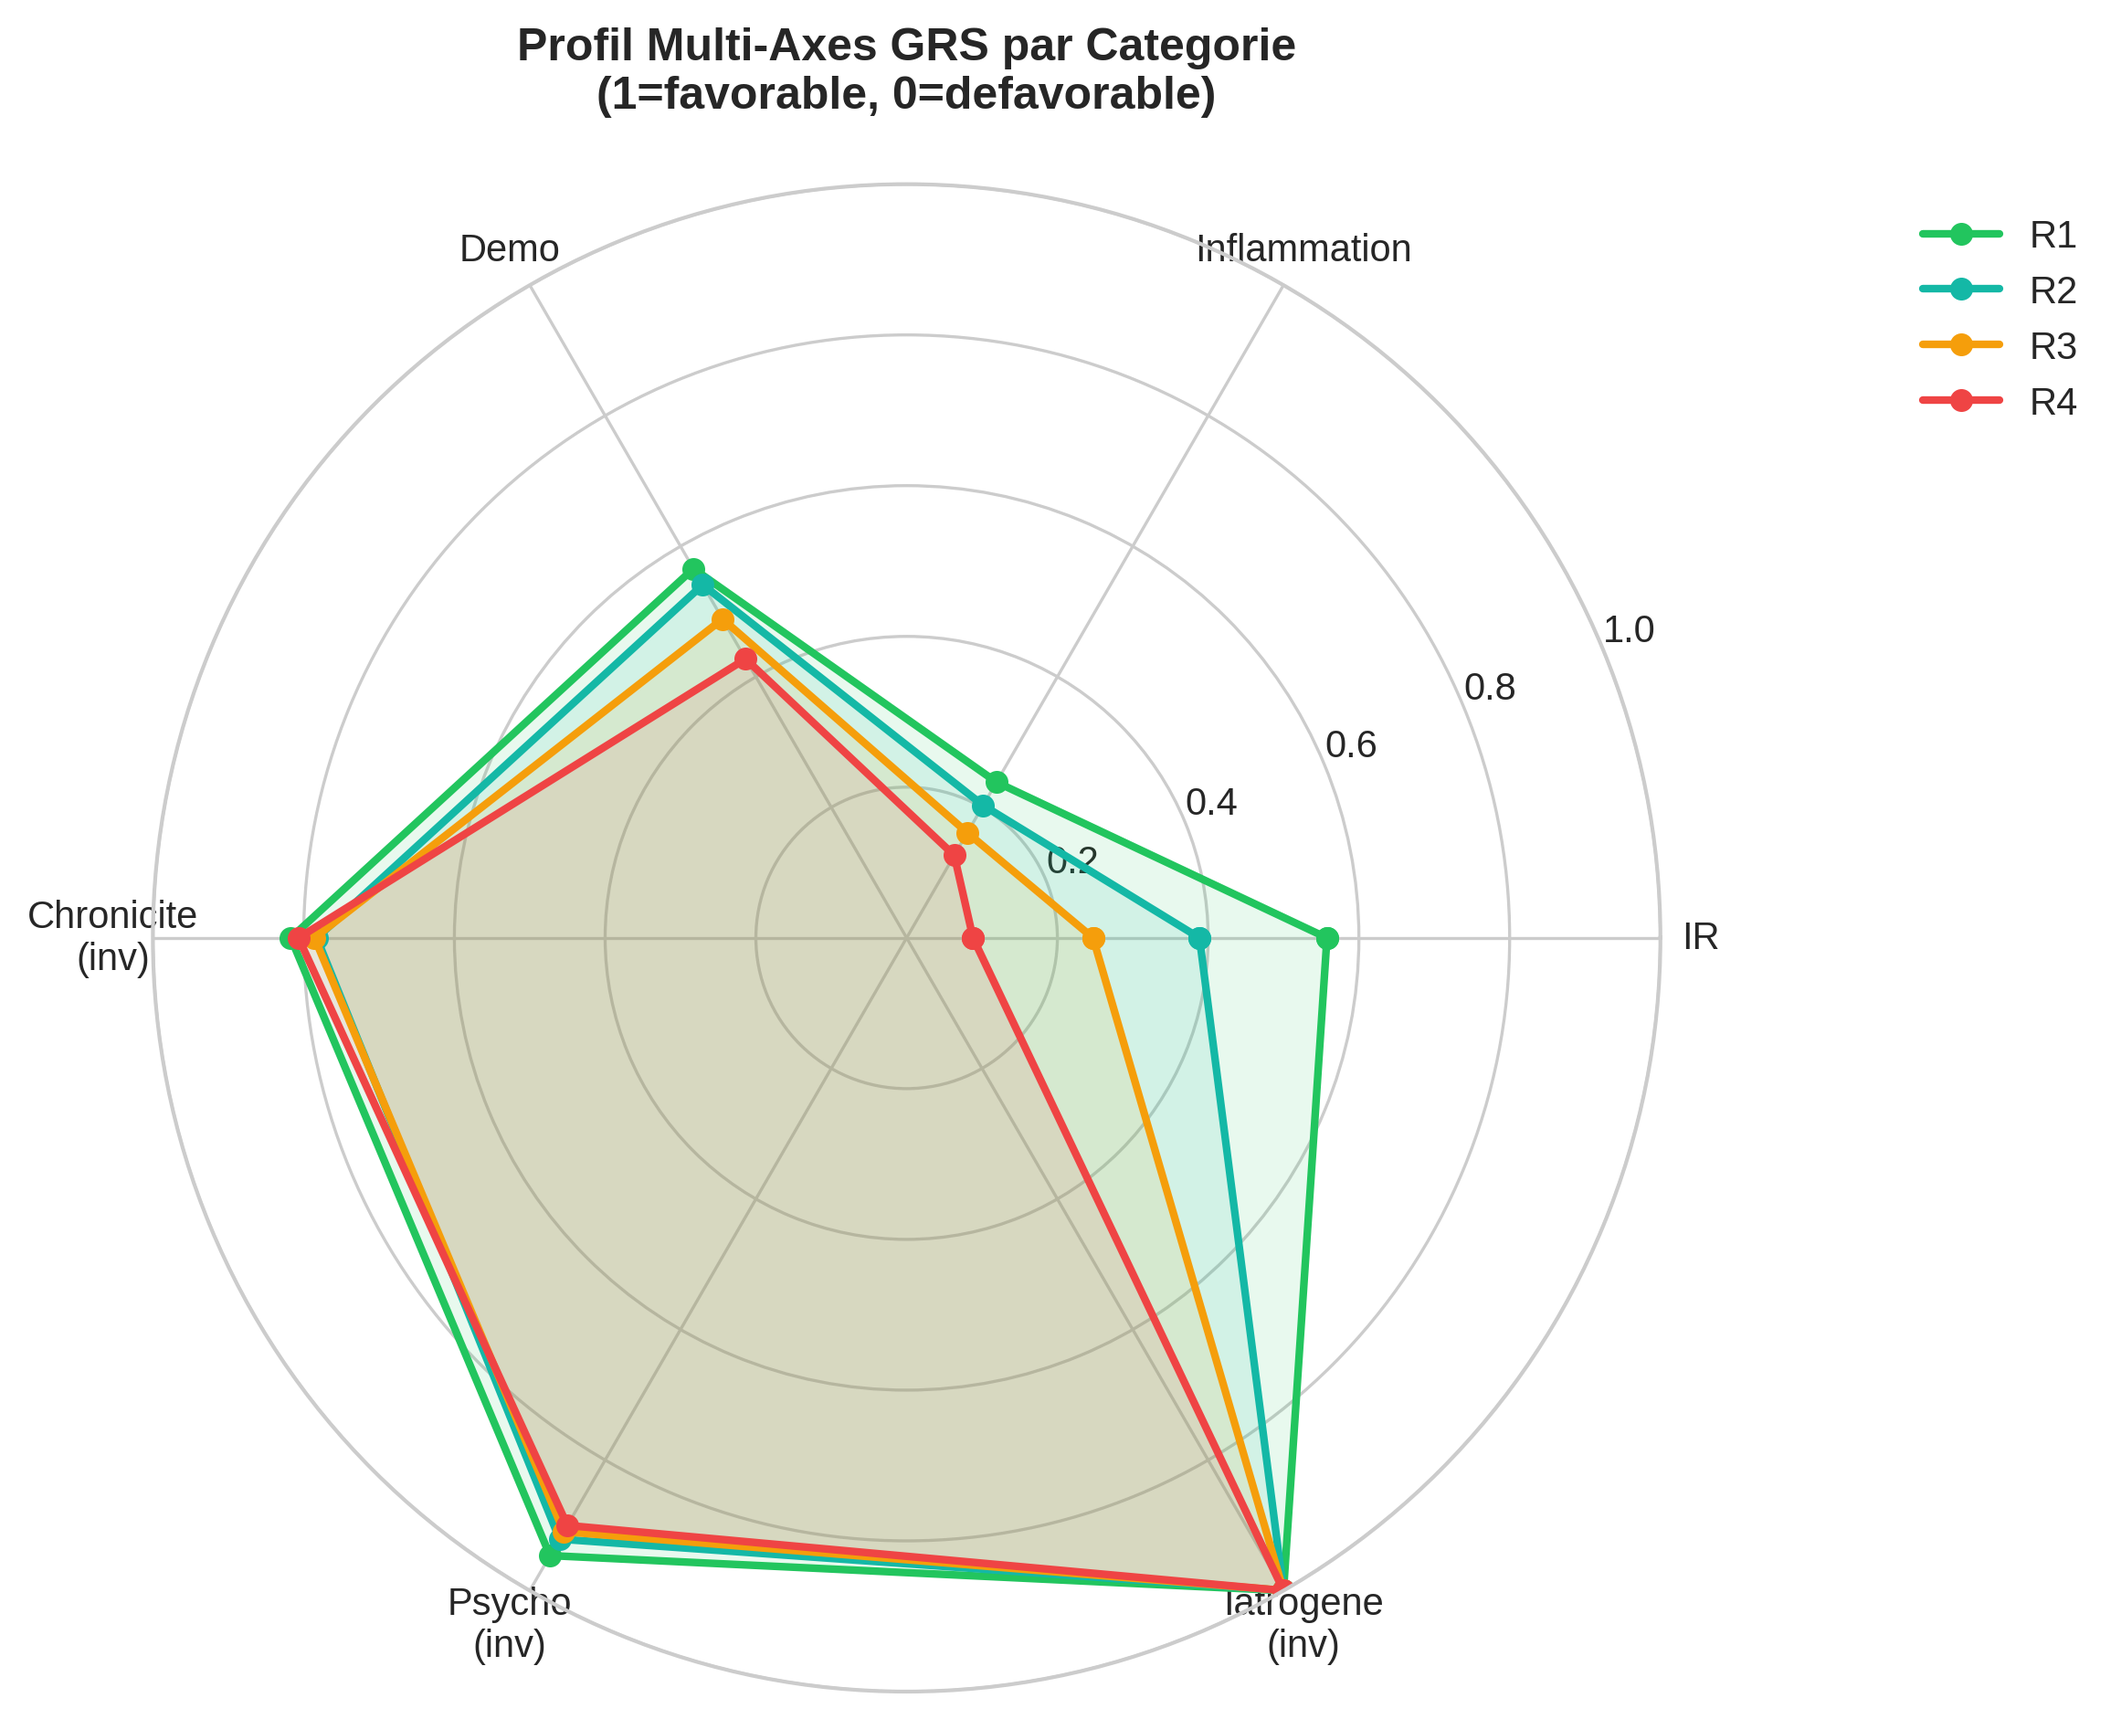
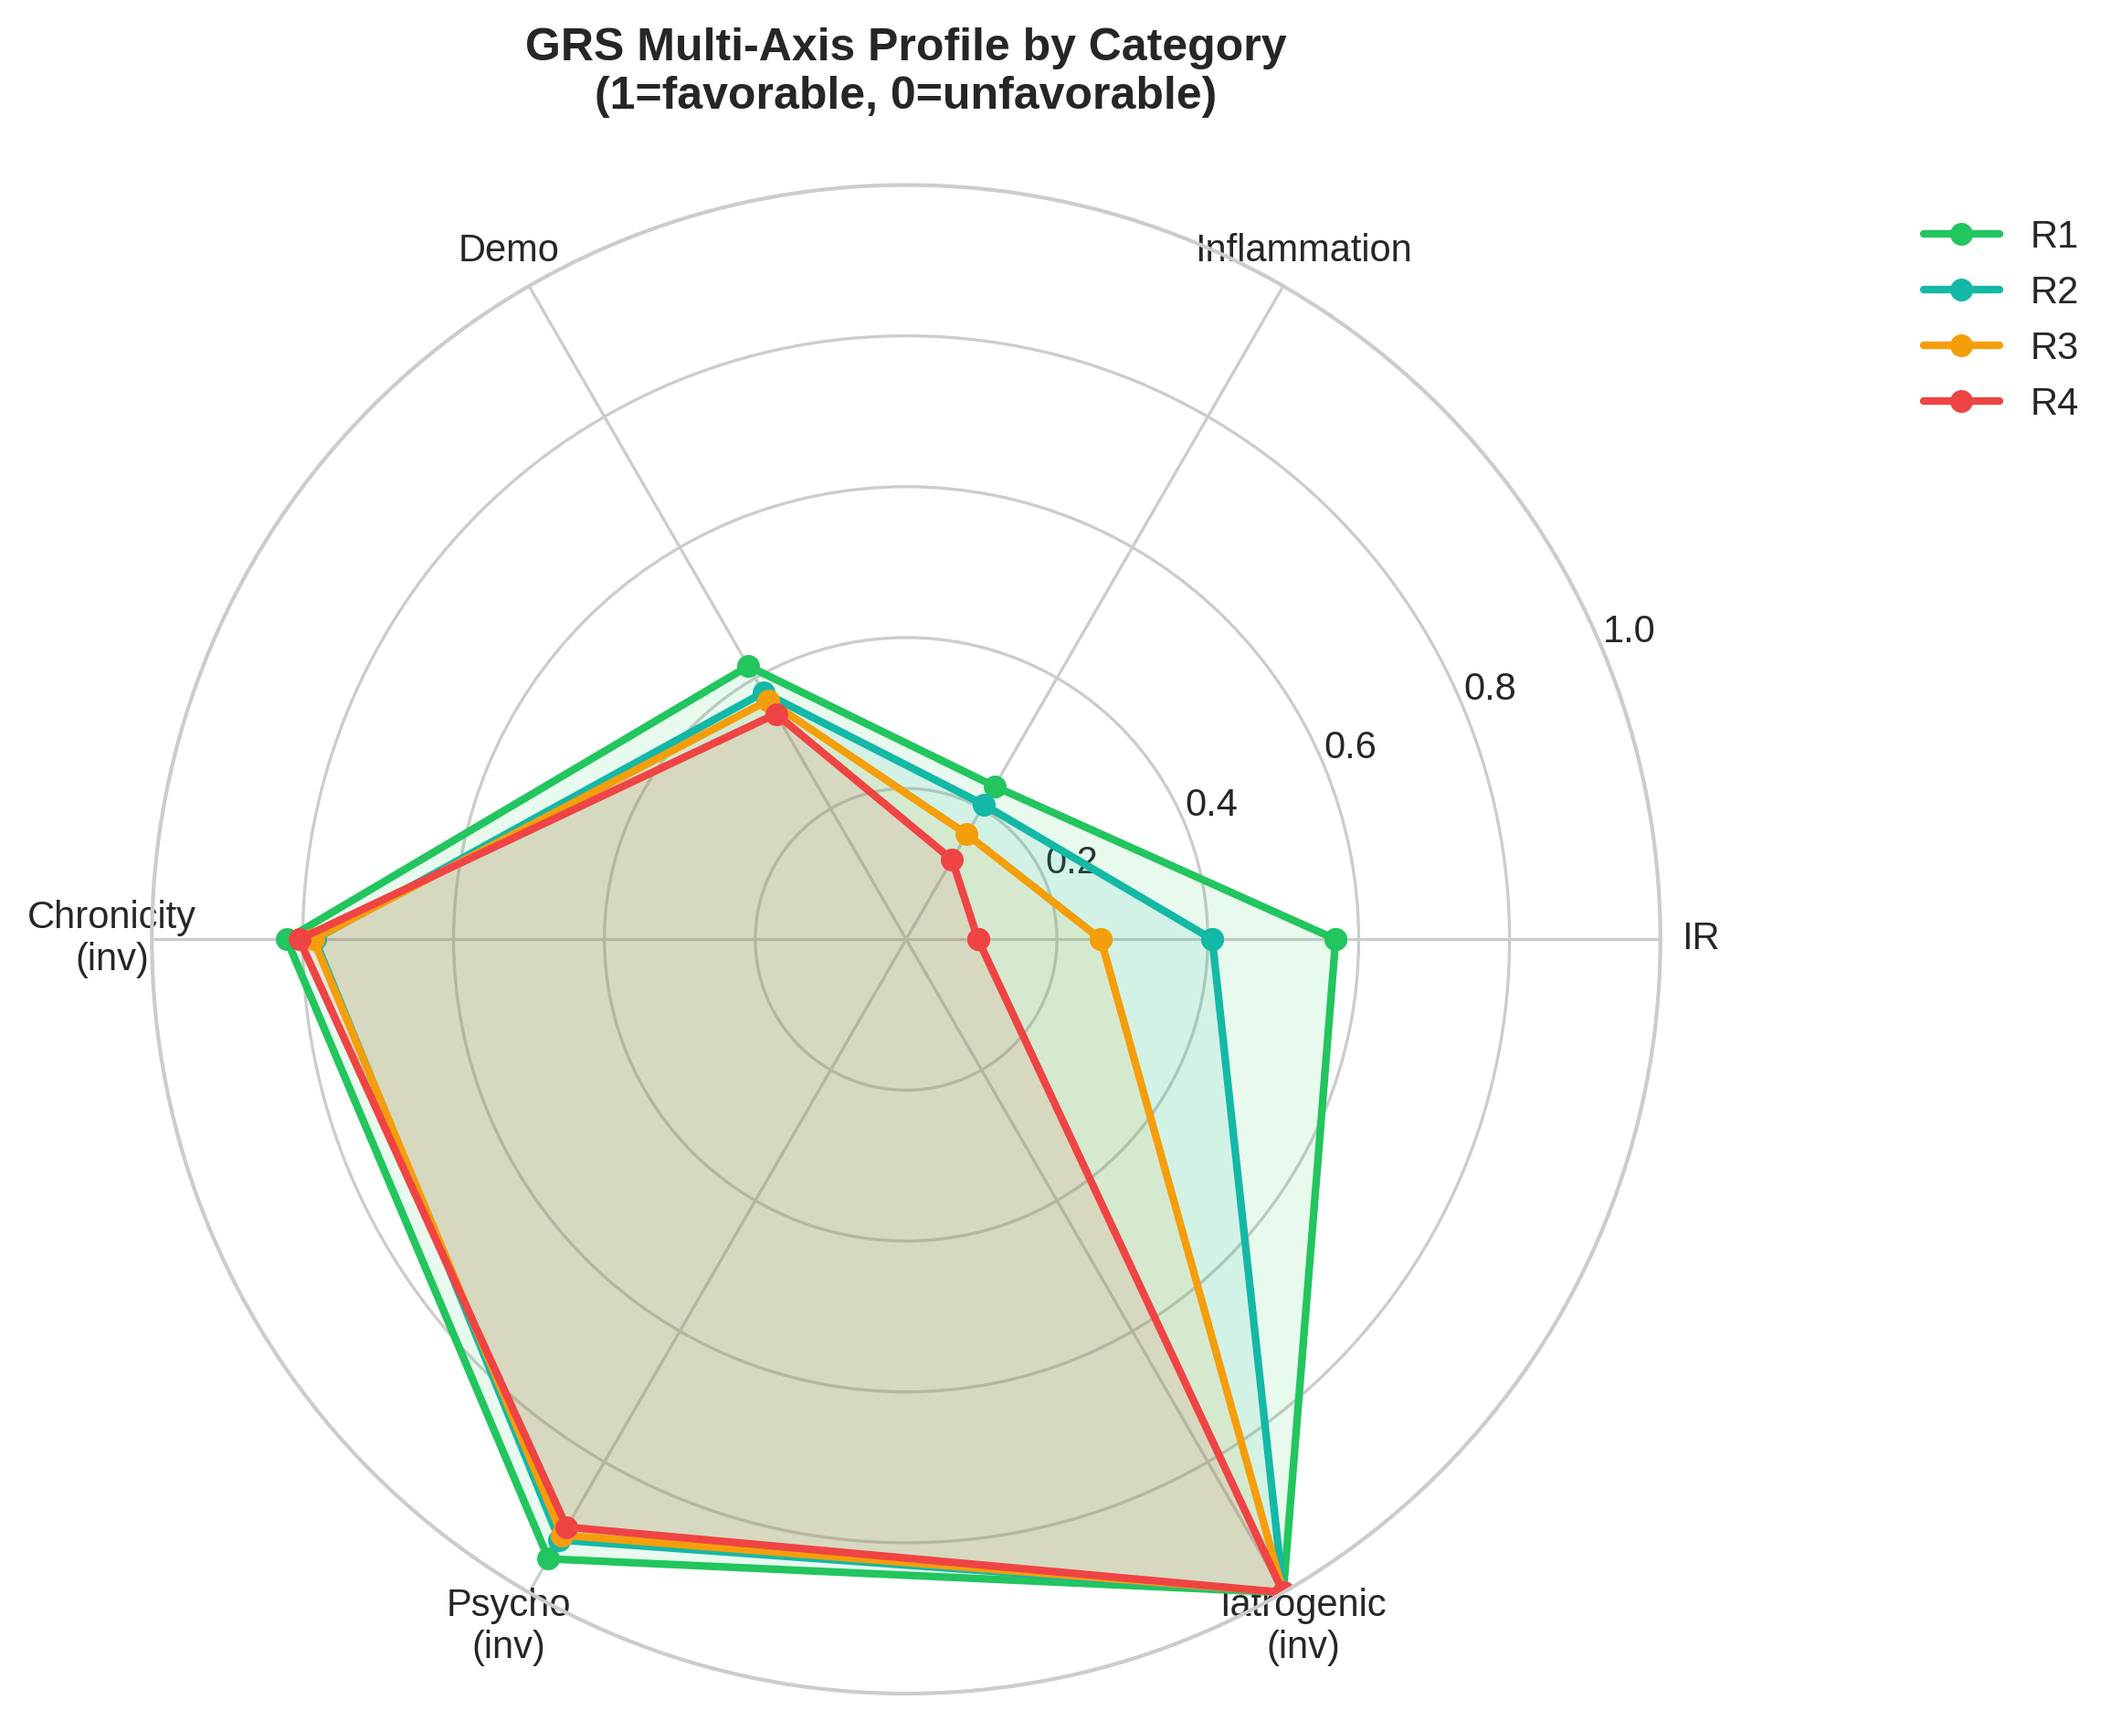
Translate figure labels from French to English
- fig3_distributions.png: FAIBLE→LOW, MODERE→MODERATE, ELEVE→HIGH, TRES_ELEVE→VERY_HIGH
- fig_btm4_radar_axes.png: Chronicite→Chronicity, Iatrogene→Iatrogenic, title in English
- fig_btm2_calibration_ppe.png: axis labels and legend translated to English
- generate_unified_article.py: updated S5 caption with detailed description

https://claude.ai/code/session_01TeLDZmhqjDQWJoh2d1sN31

diff --git a/btm_monte_carlo_validation.py b/btm_monte_carlo_validation.py
@@ -1248,10 +1248,10 @@ def generate_btm_figures(df, val_results, eligible, subgroup_results, axis_resul
             mean_ppe = np.mean(ppe_vals)
             mean_tbwl = np.mean(tbwl_vals)
             ax.plot(mean_ppe, mean_tbwl, 'o', color=colors[p], markersize=12, markeredgecolor='black', markeredgewidth=1.5)
-    ax.plot([0, 25], [0, 25], 'k--', lw=1, alpha=0.5, label='Calibration parfaite')
-    ax.set_xlabel('PPE (Perte de Poids Estimee, %)', fontsize=12)
-    ax.set_ylabel('TBWL Simule Moyen (%)', fontsize=12)
-    ax.set_title('Calibration PPE vs Reponse Simulee par Profil', fontsize=13, fontweight='bold')
+    ax.plot([0, 25], [0, 25], 'k--', lw=1, alpha=0.5, label='Perfect calibration')
+    ax.set_xlabel('PPE (Predicted Weight Loss, %)', fontsize=12)
+    ax.set_ylabel('Mean Simulated TBWL (%)', fontsize=12)
+    ax.set_title('PPE Calibration vs Simulated Response by Profile', fontsize=13, fontweight='bold')
     ax.legend(fontsize=9)
     ax.set_xlim(-1, 26)
     ax.set_ylim(-2, 30)
@@ -1297,7 +1297,7 @@ def generate_btm_figures(df, val_results, eligible, subgroup_results, axis_resul
 
     # ── Fig BTM-4: Radar Chart (GRS Axes by Profile) ──
     fig, ax = plt.subplots(figsize=(8, 8), subplot_kw=dict(polar=True))
-    axes_names = ['IR', 'Inflammation', 'Demo', 'Chronicite\n(inv)', 'Psycho\n(inv)', 'Iatrogene\n(inv)']
+    axes_names = ['IR', 'Inflammation', 'Demo', 'Chronicity\n(inv)', 'Psycho\n(inv)', 'Iatrogenic\n(inv)']
     angles = np.linspace(0, 2*np.pi, len(axes_names), endpoint=False).tolist()
     angles += angles[:1]
 
@@ -1319,7 +1319,7 @@ def generate_btm_figures(df, val_results, eligible, subgroup_results, axis_resul
     ax.set_xticks(angles[:-1])
     ax.set_xticklabels(axes_names, fontsize=10)
     ax.set_ylim(0, 1)
-    ax.set_title('Profil Multi-Axes GRS par Categorie\n(1=favorable, 0=defavorable)', fontsize=12, fontweight='bold', pad=20)
+    ax.set_title('GRS Multi-Axis Profile by Category\n(1=favorable, 0=unfavorable)', fontsize=12, fontweight='bold', pad=20)
     ax.legend(loc='upper right', bbox_to_anchor=(1.3, 1.0))
     plt.tight_layout()
     fig.savefig(os.path.join(OUTPUT_DIR, 'fig_btm4_radar_axes.png'), dpi=300, bbox_inches='tight')

diff --git a/generate_unified_article.py b/generate_unified_article.py
@@ -77,7 +77,7 @@ SUPP_FIGURES = {
     "S2": {"file": "fig6_biomarker_heatmap.png", "caption": "Biomarker correlation heatmap (18 biomarkers + sf + bioNorm)."},
     "S3": {"file": "fig8_mc_distributions.png", "caption": "Monte Carlo modeled indicator distributions for 11 imputed variables."},
     "S4": {"file": "fig7_model_comparison.png", "caption": "Comparative discrimination for MetS prediction: BMN v3.5 vs. ML models (Logistic Regression, Random Forest, Gradient Boosting). The BMN v3.5 (AUC = 0.876) achieves lower discrimination than ensemble ML models (AUC ~0.95) but operates under fundamentally different constraints."},
-    "S5": {"file": "fig_btm2_calibration_ppe.png", "caption": "PPE calibration: predicted vs. simulated TBWL by response profile."},
+    "S5": {"file": "fig_btm2_calibration_ppe.png", "caption": "PPE calibration: predicted vs. simulated TBWL, by response profile. Scatter plot with group means (large circles) for R1 (n=314), R2 (n=2714), R3 (n=6,241), R4 (n=3,186). Dashed line indicates perfect calibration."},
     "S6": {"file": "fig5_subgroup_forest.png", "caption": "Subgroup forest plot for BMN MetS prediction AUC by demographic and clinical subgroups."},
     "S7": {"file": "fig_btm8_molecule_outcomes.png", "caption": "Molecule-specific outcomes: simulated TBWL distribution by recommended molecule."},
     "S8": {"file": "fig_btm1_roc_glp1.png", "caption": "BTM ROC curves: GRS/GRI discrimination for simulated GLP-1 responder and super-responder prediction."},

diff --git a/bmn_monte_carlo_nhanes.py b/bmn_monte_carlo_nhanes.py
@@ -2116,13 +2116,14 @@ def generate_publication_figures(scored_datasets, validation_results,
     ax = axes[1]
     # Box plot by classification
     labels_order = ['FAIBLE', 'MODERE', 'ELEVE', 'TRES_ELEVE']
+    labels_display = {'FAIBLE': 'LOW', 'MODERE': 'MODERATE', 'ELEVE': 'HIGH', 'TRES_ELEVE': 'VERY_HIGH'}
     data_by_label = []
     label_names = []
     for lab in labels_order:
         mask = df_valid['label'] == lab
         if mask.sum() > 0:
             data_by_label.append(df_valid.loc[mask, 'MetS'].values)
-            label_names.append(lab)
+            label_names.append(labels_display[lab])
     if data_by_label:
         bp = ax.boxplot(data_by_label, labels=label_names, patch_artist=True)
         colors = ['#2ecc71', '#f39c12', '#e74c3c', '#8e44ad']
